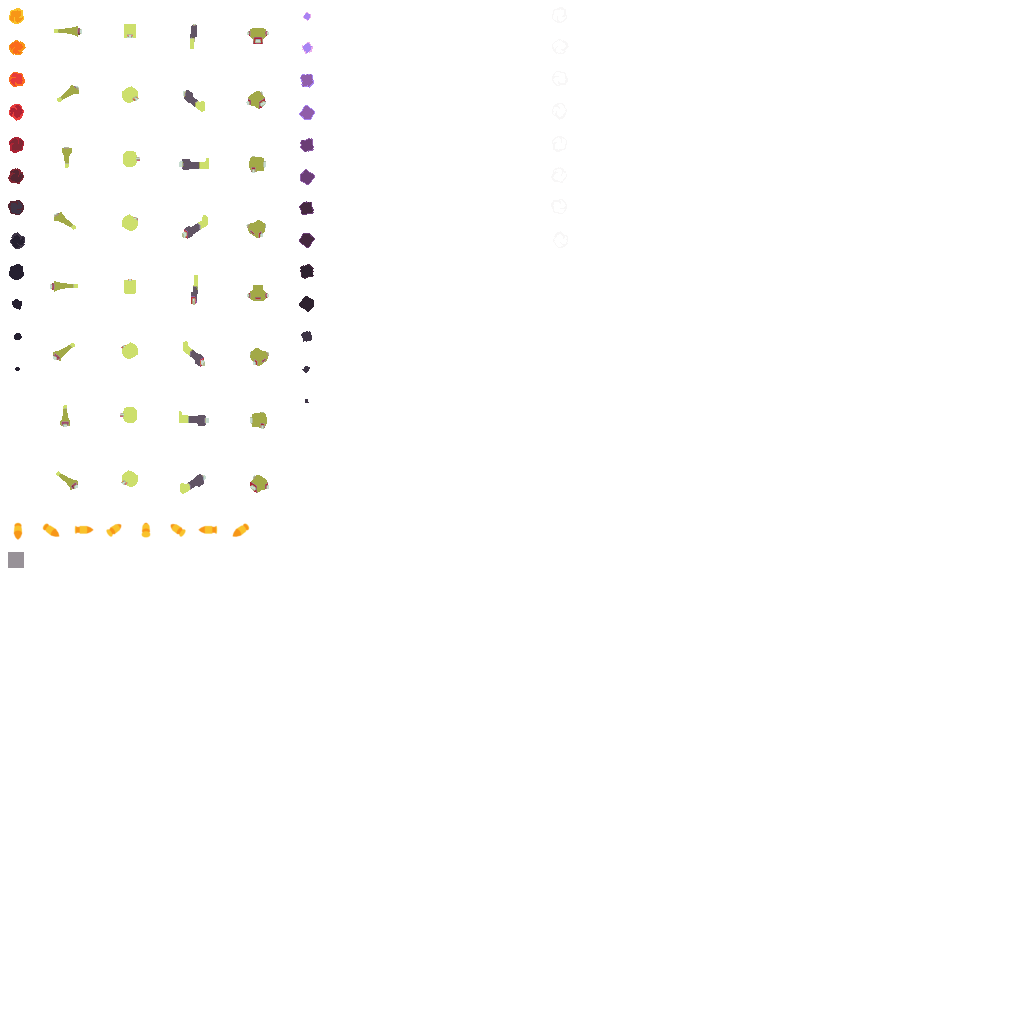
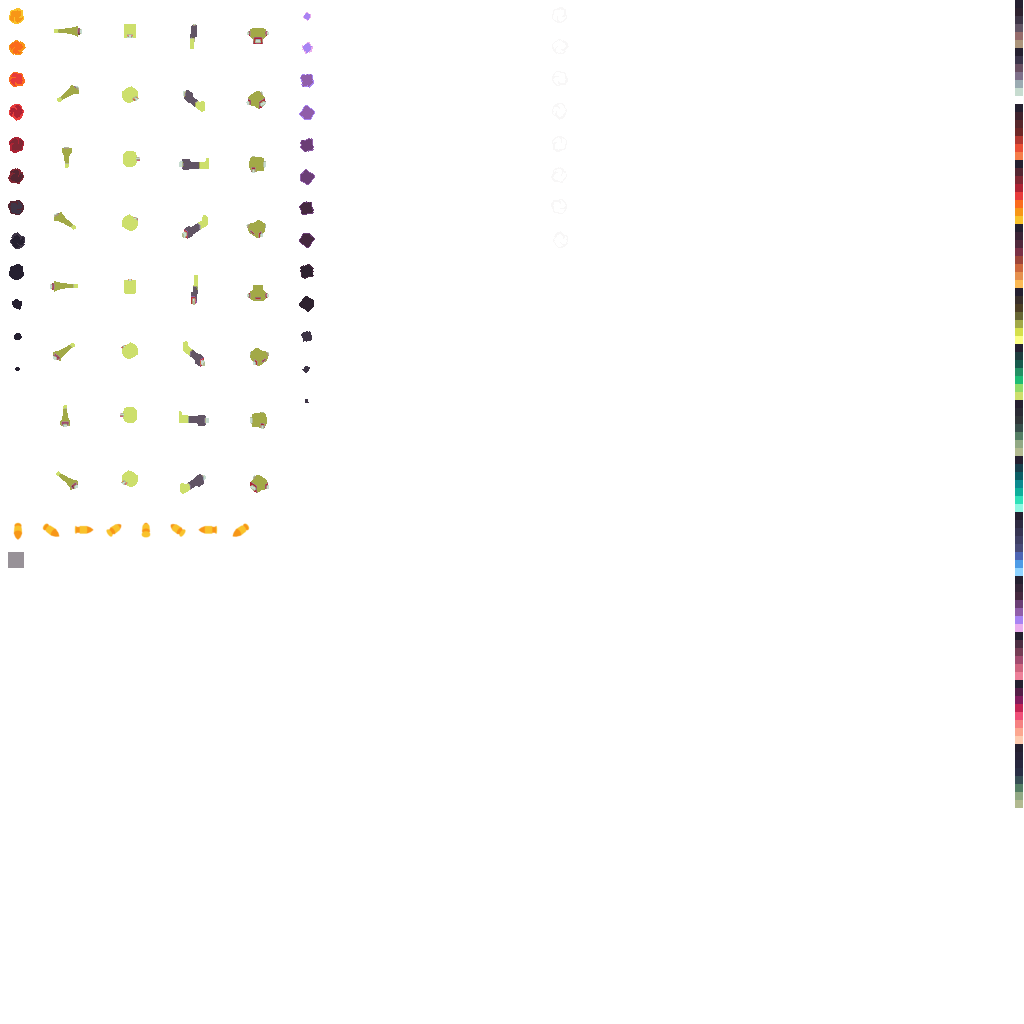
0.7.327

Changed region(s): [[0.9688, 0.0, 1.0, 0.7812]]

diff --git a/gamestream_flutter/lib/render/renderer_particles.dart b/gamestream_flutter/lib/render/renderer_particles.dart
@@ -131,6 +131,71 @@ class RendererParticles extends Renderer {
             color: GameState.getV3RenderColor(particle),
           );
           break;
+        case ParticleType.Confetti_Yellow:
+          Engine.renderSprite(
+            image: GameImages.shades,
+            dstX: dstX,
+            dstY: dstY,
+            srcX: 216,
+            srcY: 0,
+            srcWidth: 8,
+            srcHeight: 8,
+            scale: particle.scale,
+            color: GameState.getV3RenderColor(particle),
+          );
+          break;
+        case ParticleType.Confetti_Red:
+          Engine.renderSprite(
+            image: GameImages.shades,
+            dstX: dstX,
+            dstY: dstY,
+            srcX: 192,
+            srcY: 0,
+            srcWidth: 8,
+            srcHeight: 8,
+            scale: particle.scale,
+            color: GameState.getV3RenderColor(particle),
+          );
+          break;
+        case ParticleType.Confetti_Blue:
+          Engine.renderSprite(
+            image: GameImages.shades,
+            dstX: dstX,
+            dstY: dstY,
+            srcX: 560,
+            srcY: 0,
+            srcWidth: 8,
+            srcHeight: 8,
+            scale: particle.scale,
+            color: GameState.getV3RenderColor(particle),
+          );
+          break;
+        case ParticleType.Confetti_Green:
+          Engine.renderSprite(
+            image: GameImages.shades,
+            dstX: dstX,
+            dstY: dstY,
+            srcX: 384,
+            srcY: 0,
+            srcWidth: 8,
+            srcHeight: 8,
+            scale: particle.scale,
+            color: GameState.getV3RenderColor(particle),
+          );
+          break;
+        case ParticleType.Confetti_Purple:
+          Engine.renderSprite(
+            image: GameImages.shades,
+            dstX: dstX,
+            dstY: dstY,
+            srcX: 616,
+            srcY: 0,
+            srcWidth: 8,
+            srcHeight: 8,
+            scale: particle.scale,
+            color: GameState.getV3RenderColor(particle),
+          );
+          break;
         case ParticleType.Block_Brick:
           Engine.renderSprite(
             image: GameImages.atlas_gameobjects,

diff --git a/gamestream_flutter/lib/game_state.dart b/gamestream_flutter/lib/game_state.dart
@@ -264,6 +264,7 @@ class GameState {
     double rotationV = 0,
     bounciness = 0.5,
     bool animation = false,
+    int delay = 0,
   }) {
     if (ClientState.totalActiveParticles >= GameConfig.Particles_Max) {
       return particleOverflow;
@@ -278,6 +279,7 @@ class GameState {
     particle.checkNodeCollision = checkCollision;
     particle.animation = animation;
     particle.emitsLight = false;
+    particle.delay = delay;
 
     if (speed > 0){
       particle.xv = Engine.calculateAdjacent(angle, speed);
@@ -1342,4 +1344,25 @@ class GameState {
 
       GameNodes.nodeTypes[getNodeIndexZRC(z, row, column)] = type;
     }
+
+  static void spawnParticleConfetti(double x, double y, double z) {
+      spawnParticle(
+          type: randomItem(const[
+            ParticleType.Confetti_Red,
+            ParticleType.Confetti_Yellow,
+            ParticleType.Confetti_Blue,
+            ParticleType.Confetti_Green,
+            ParticleType.Confetti_Purple,
+          ]),
+          x: x,
+          y: y,
+          z: z,
+          angle: randomAngle(),
+          speed: randomBetween(0.5, 2.0),
+          weight: -0.02,
+          scale: 0.5,
+          duration: randomInt(25, 100),
+          delay: randomInt(0, 10),
+      );
+  }
 }

diff --git a/gamestream_flutter/lib/game_images.dart b/gamestream_flutter/lib/game_images.dart
@@ -5,6 +5,7 @@ import 'package:bleed_common/src.dart';
 import 'package:lemon_engine/src.dart';
 
 class GameImages {
+   static late Image shades;
    static late Image pixel;
    static late Image projectiles;
    static late Image zombie;
@@ -189,6 +190,7 @@ class GameImages {
    }
 
    static void loadImages() {
+      Engine.loadImageAsset('images/shades.png').then((value) => shades = value);
       Engine.loadImageAsset('images/atlas-characters.png').then((value) => atlas_characters = value);
       Engine.loadImageAsset('images/atlas-zombie.png').then((value) => zombie = value);
       Engine.loadImageAsset('images/atlas-zombie-shadow.png').then((value) => zombie_shadow = value);

diff --git a/gamestream_flutter/lib/src/client/src/client_actions.dart b/gamestream_flutter/lib/src/client/src/client_actions.dart
@@ -74,4 +74,14 @@ class ClientActions {
   static void refreshTotalGrenades(){
     GamePlayer.totalGrenades.value = ServerQuery.countItemTypeQuantityInPlayerPossession(ItemType.Weapon_Thrown_Grenade);
   }
+
+  static void spawnConfettiPlayer() {
+     for (var i = 0; i < 10; i++){
+       GameState.spawnParticleConfetti(
+         GamePlayer.position.x,
+         GamePlayer.position.y,
+         GamePlayer.position.z,
+       );
+     }
+  }
 }

diff --git a/bleed-common/lib/src/particle_type.dart b/bleed-common/lib/src/particle_type.dart
@@ -34,6 +34,11 @@ class ParticleType {
   static const Strike_Bullet_Light = 47;
   static const Block_Sand = 48;
   static const Shadow = 49;
+  static const Confetti_Red = 50;
+  static const Confetti_Yellow = 51;
+  static const Confetti_Blue = 52;
+  static const Confetti_Green = 53;
+  static const Confetti_Purple = 54;
 
   static String getName(int particleType){
     return const {

diff --git a/bleed-server/lib/common/src/particle_type.dart b/bleed-server/lib/common/src/particle_type.dart
@@ -34,6 +34,11 @@ class ParticleType {
   static const Strike_Bullet_Light = 47;
   static const Block_Sand = 48;
   static const Shadow = 49;
+  static const Confetti_Red = 50;
+  static const Confetti_Yellow = 51;
+  static const Confetti_Blue = 52;
+  static const Confetti_Green = 53;
+  static const Confetti_Purple = 54;
 
   static String getName(int particleType){
     return const {

diff --git a/gamestream_flutter/lib/game_events.dart b/gamestream_flutter/lib/game_events.dart
@@ -425,6 +425,7 @@ class GameEvents {
       case PlayerEvent.Item_Purchased:
         final itemType = serverResponseReader.readUInt16();
         GameAudio.cash_register_4();
+        ClientActions.spawnConfettiPlayer();
 
         if (GameOptions.items.value){
           final level = GamePlayer.items[itemType];

diff --git a/bleed-common/lib/src/version.dart b/bleed-common/lib/src/version.dart
@@ -1,4 +1,4 @@
-const version = '0.7.326';
+const version = '0.7.327';
 
 
 

diff --git a/bleed-server/lib/common/src/version.dart b/bleed-server/lib/common/src/version.dart
@@ -1,4 +1,4 @@
-const version = '0.7.326';
+const version = '0.7.327';
 
 
 
